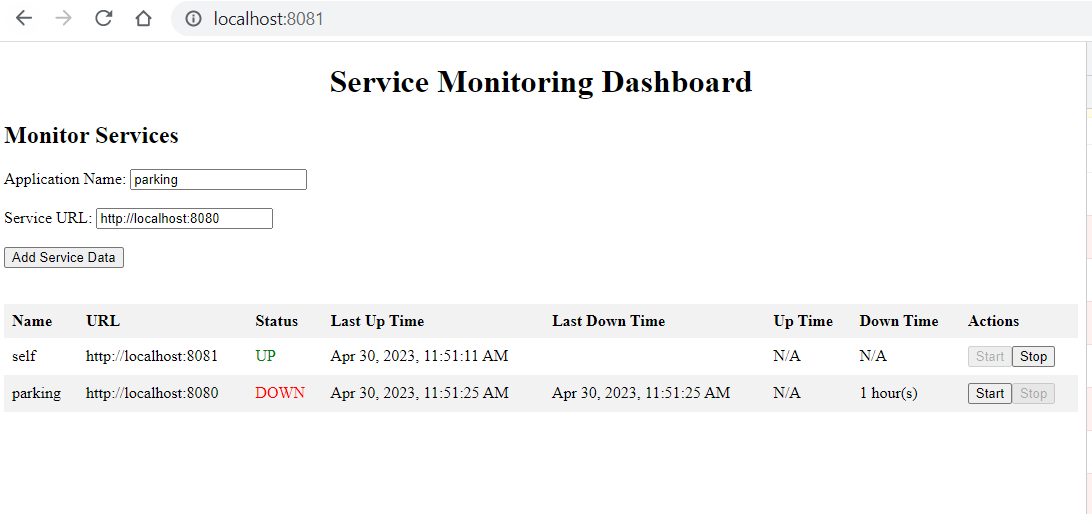
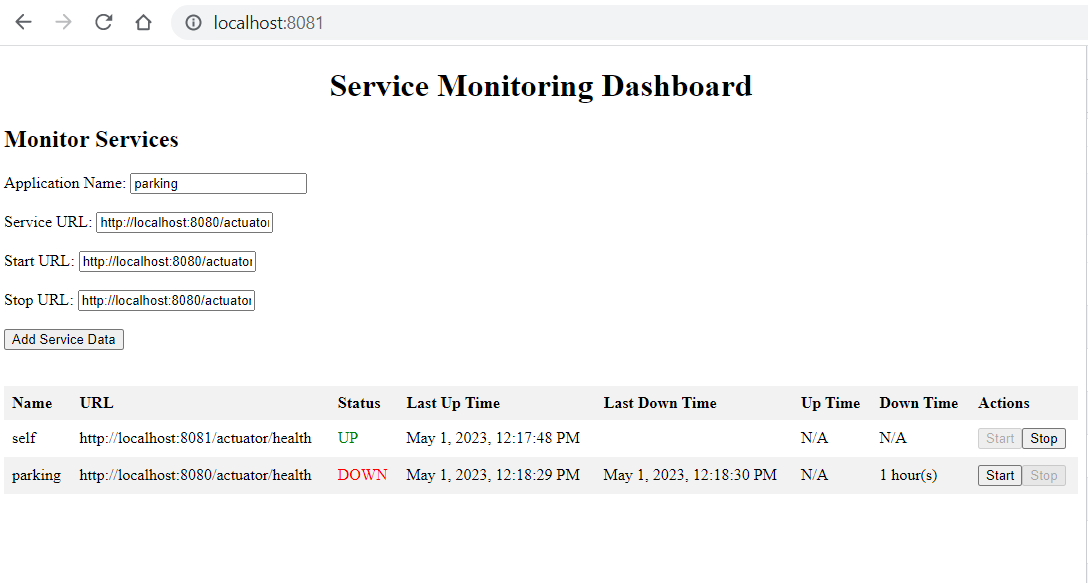
update on start and stop actions

diff --git a/src/app/app.component.ts b/src/app/app.component.ts
@@ -15,9 +15,11 @@ export class AppComponent {
   appName: string;
   title = 'angular-control-app';
   services: any = [];
+  startUrl: string;
+  stopUrl: string;
 
   // constructor(private http: HttpClient) {
-  //   this.monitorService('http://localhost:8080/edi-etpws-v2', 'App 1');
+  //   this.monitorService('http://localhost:8080/app1', 'App 1');
   //   this.monitorService('http://localhost:8081/app2', 'App 2');
   //   this.monitorService('http://localhost:8082/app3', 'App 3');
   //   this.monitorService('http://localhost:8083/app4', 'App 4');
@@ -40,7 +42,7 @@ export class AppComponent {
     const url = serviceData.url;
     const name = serviceData.name;
     interval(5000).subscribe(() => {
-      this.http.get<any>(`${url}/actuator/health`).subscribe(data => {
+      this.http.get<any>(`${url}`).subscribe(data => {
         const status = data.status;
         const dateTime = new Date();
         const service = this.services.find(s => s.url === url);
@@ -116,14 +118,14 @@ export class AppComponent {
   }
   
 
-  startService(url: string) {
-    this.http.post<any>(`${url}/actuator/startup`, {}).subscribe(data => {
+  startService(startUrl: string) {
+    this.http.post<any>(`${startUrl}`, {}).subscribe(data => {
       console.log(data);
     });
   }
 
-  stopService(url: string) {
-    this.http.post<any>(`${url}/actuator/shutdown`, {}).subscribe(data => {
+  stopService(stopUrl: string) {
+    this.http.post<any>(`${stopUrl}`, {}).subscribe(data => {
       console.log(data);
     });
   }
@@ -131,6 +133,8 @@ export class AppComponent {
   addServiceData() {
     const data: ServiceData = new ServiceData();
     data.url = this.serviceUrl;
+    data.startUrl=this.startUrl;
+    data.stopUrl=this.stopUrl;
     data.name = this.appName;
     this.serviceDataService.updateServiceData(data);
     this.loadServiceData();

diff --git a/src/app/app.component.html b/src/app/app.component.html
@@ -13,6 +13,16 @@
       <input type="text" name="serviceUrl" [(ngModel)]="serviceUrl" required>
     </label>
     <br><br>
+    <label>
+      Start URL:
+      <input type="text" name="serviceDomain" [(ngModel)]="startUrl" required>
+    </label>
+    <br><br>
+    <label>
+      Stop URL:
+      <input type="text" name="serviceDomain" [(ngModel)]="stopUrl" required>
+    </label>
+    <br><br>
     <button type="submit" (click)="addServiceData()">Add Service Data</button>
   </form>
 </div>

diff --git a/src/app/service-data.ts b/src/app/service-data.ts
@@ -3,6 +3,8 @@ export class ServiceData {
     name: string;
     status: string;
     url:string;
+    startUrl: string;
+    stopUrl: string;
     startTime:string;
     stopTime:string;
     upTime:string;

diff --git a/src/main/java/com/monitor/service/model/ServiceData.java b/src/main/java/com/monitor/service/model/ServiceData.java
@@ -33,6 +33,12 @@ public class ServiceData implements Serializable {
     
     @Column(name = "service_url")
     private String url;
+    
+    @Column(name = "start_url")
+    private String startUrl;
+    
+    @Column(name = "stop_url")
+    private String stopUrl;
 
     @Column(name = "service_status")
     private String status;
